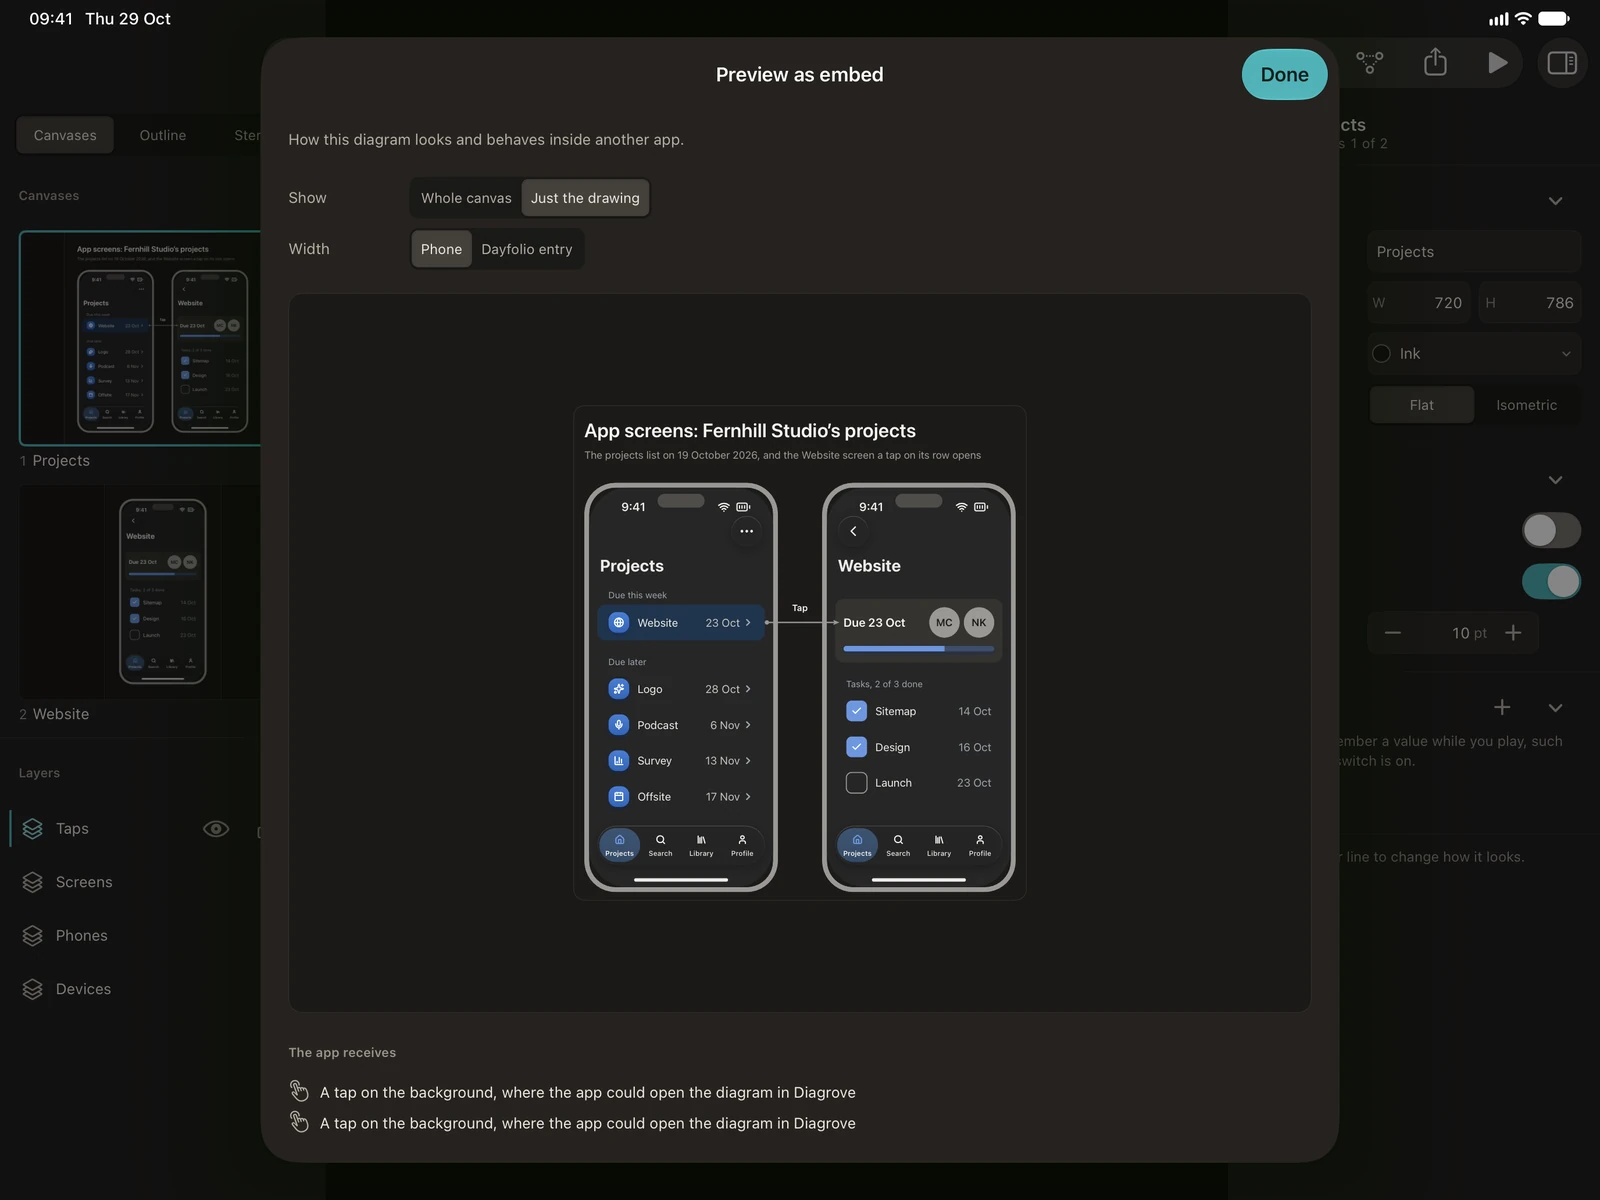
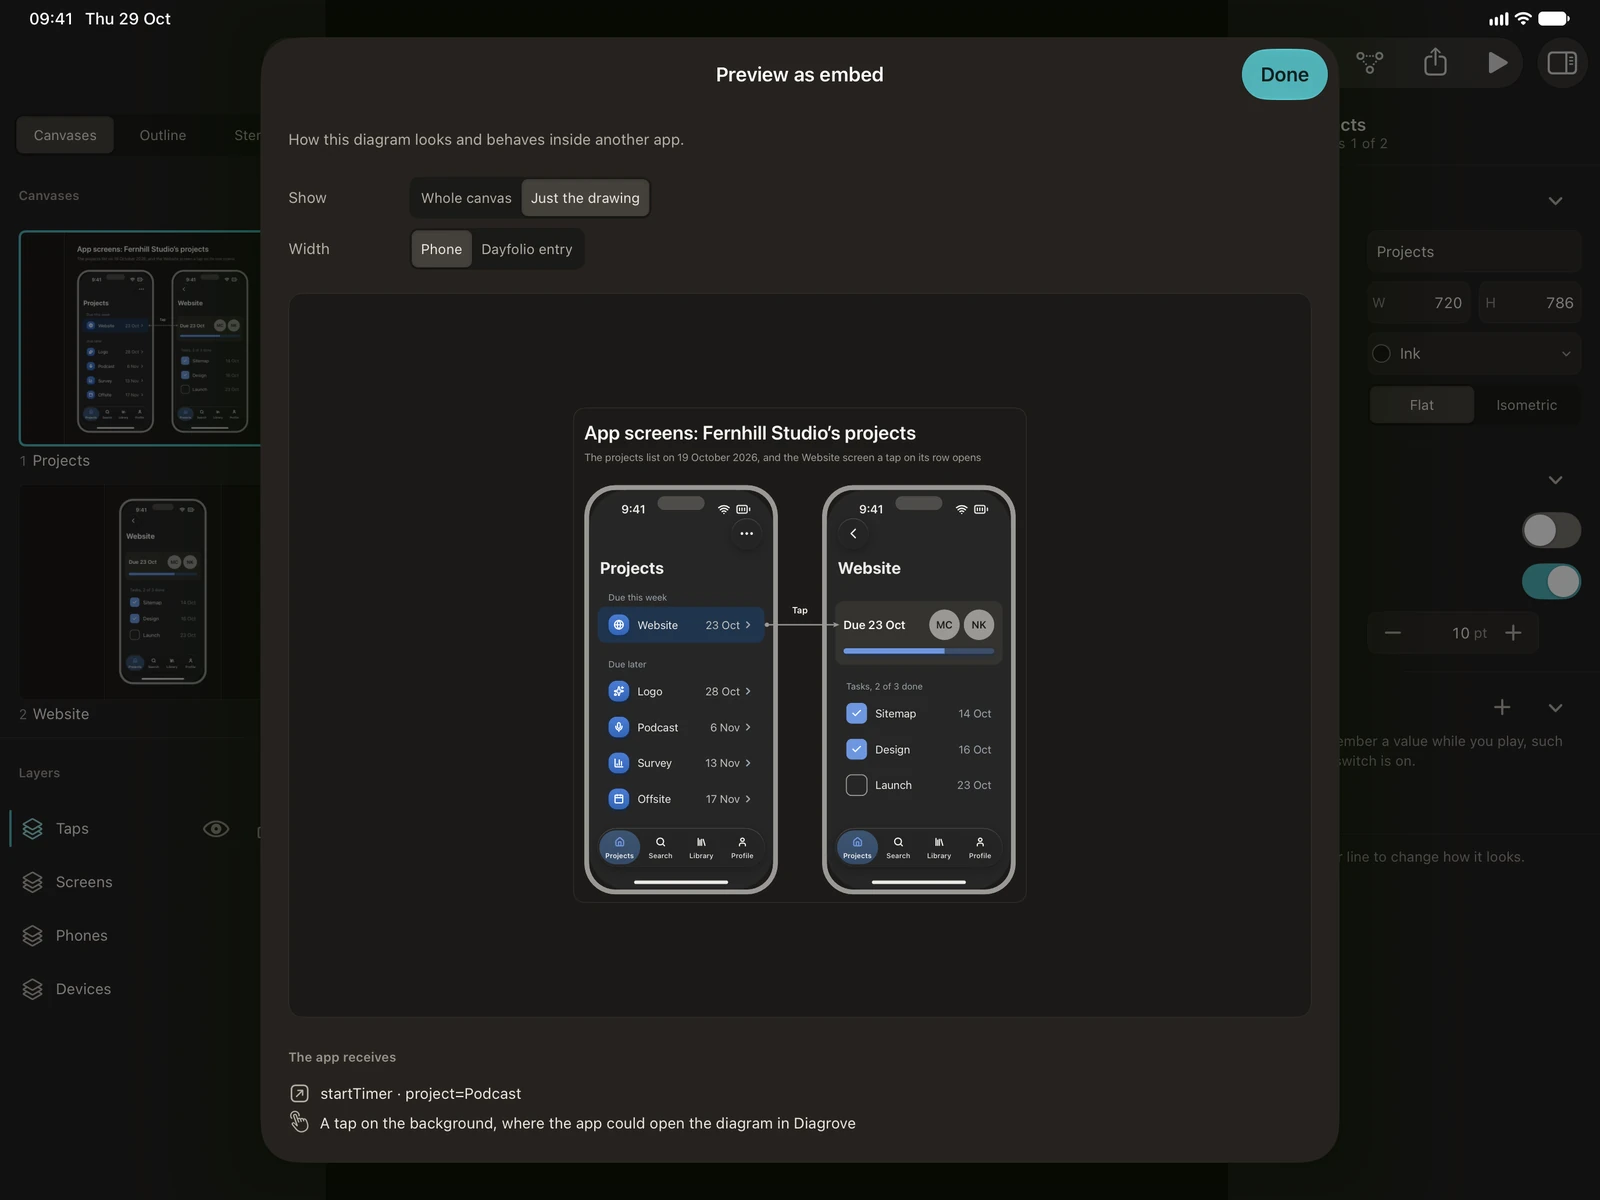
diagrove: embed-preview-ipad taken again with a host action on the Podcast row, so The app receives shows two different rows

diff --git a/content/diagrove/guide/play-mode-and-actions.md b/content/diagrove/guide/play-mode-and-actions.md
@@ -87,4 +87,4 @@ Dayfolio doesn’t show diagrams inside its entries yet, so today a host action 
 
 Choose **Done**, or press Esc, to close it. Nothing in the preview changes your document.
 
-![The Preview as embed sheet on iPad in the dark appearance over the App screen template: Show set to Just the drawing, Width set to Phone, the two phone screens in the preview, and two rows under The app receives, each a tap on the background.](embed-preview-ipad.webp "Preview as embed on iPad, with what the app receives.")
+![The Preview as embed sheet on iPad in the dark appearance over the App screen template, its Podcast row given an Ask the host app action: Show set to Just the drawing, Width set to Phone, the two phone screens in the preview, and two rows under The app receives: startTimer · project=Podcast from a tap on the Podcast row, and a tap on the background.](embed-preview-ipad.webp "Preview as embed on iPad, with what the app receives.")
